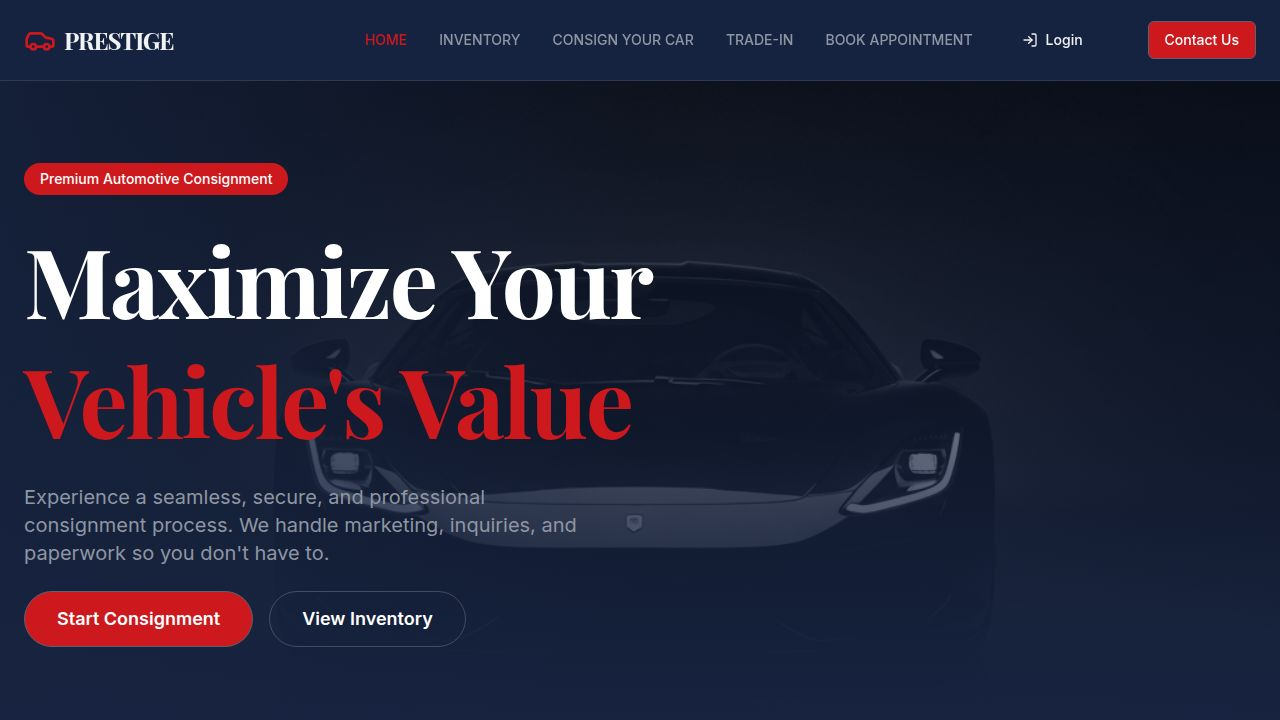
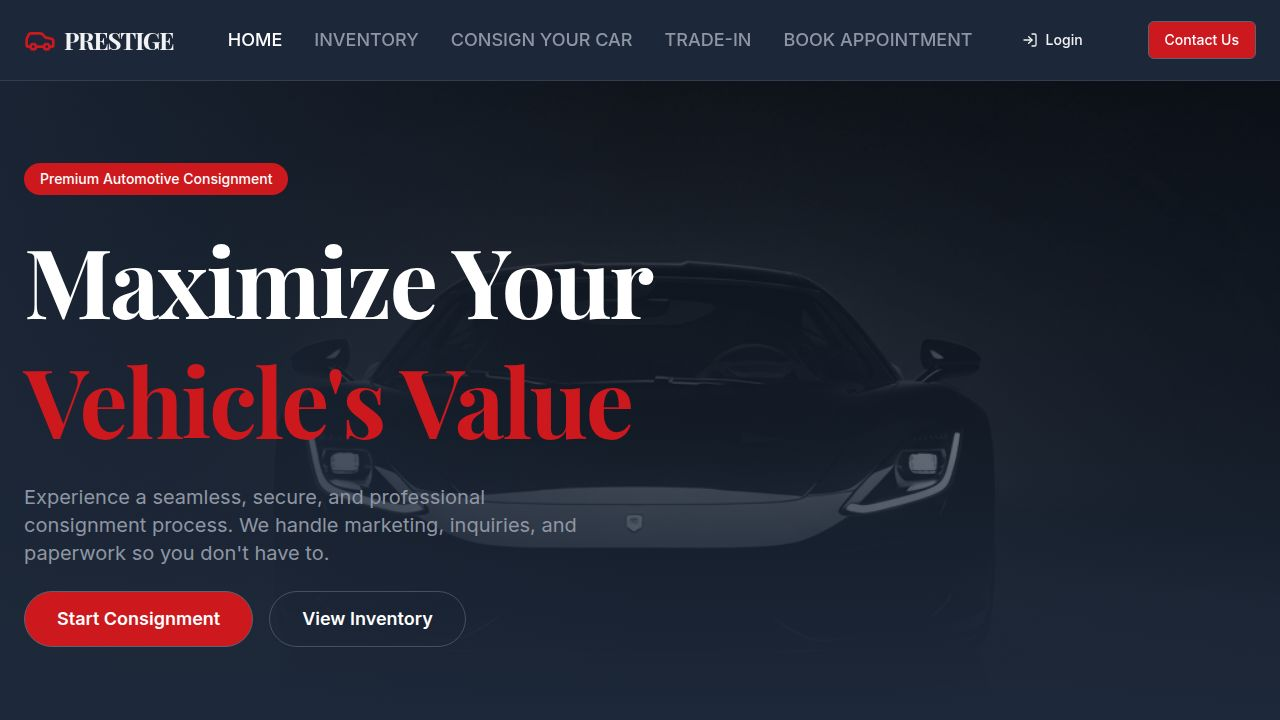
Add ability to customize navigation labels in the admin panel
Updates schema to include new fields for menu labels, modifies the Admin page to manage these labels, and updates the Navbar component to dynamically display them.

Replit-Commit-Author: Agent
Replit-Commit-Session-Id: bc98085c-f7fb-48ae-a5b9-5208d98b7f68
Replit-Commit-Checkpoint-Type: full_checkpoint
Replit-Commit-Event-Id: cee80a5c-2a74-4c8b-92bb-bd567e764853
Replit-Commit-Screenshot-Url: https://storage.googleapis.com/screenshot-production-us-central1/47449de9-d5d8-4a5c-9e45-dc5ba463f1c8/bc98085c-f7fb-48ae-a5b9-5208d98b7f68/puFXDUC
Replit-Helium-Checkpoint-Created: true

Changed region(s): [[0.25, 0.0306, 0.75, 0.0611], [0.1875, 0.0306, 0.2188, 0.0611]]

diff --git a/client/src/pages/Admin.tsx b/client/src/pages/Admin.tsx
@@ -12,7 +12,7 @@ import { Tabs, TabsContent, TabsList, TabsTrigger } from "@/components/ui/tabs";
 import { Dialog, DialogContent, DialogHeader, DialogTitle, DialogDescription, DialogFooter } from "@/components/ui/dialog";
 import { Label } from "@/components/ui/label";
 import { useToast } from "@/hooks/use-toast";
-import { Check, X, Clock, DollarSign, Lock, LogOut, Settings, Palette, Image, Phone, Mail, MapPin, Facebook, Instagram, Twitter, Youtube, Pencil, Plus, Search, Upload, Trash2, Car, Star, MessageSquare, Link, Bell, Plug, FileText, Download, ExternalLink, Eye, EyeOff, Users, Shield, UserPlus, Calculator, BarChart3, ChevronsUpDown, Loader2 } from "lucide-react";
+import { Check, X, Clock, DollarSign, Lock, LogOut, Settings, Palette, Image, Phone, Mail, MapPin, Facebook, Instagram, Twitter, Youtube, Pencil, Plus, Search, Upload, Trash2, Car, Star, MessageSquare, Link, Bell, Plug, FileText, Download, ExternalLink, Eye, EyeOff, Users, Shield, UserPlus, Calculator, BarChart3, ChevronsUpDown, Loader2, Menu } from "lucide-react";
 import { Textarea } from "@/components/ui/textarea";
 import { Switch } from "@/components/ui/switch";
 import { Popover, PopoverContent, PopoverTrigger } from "@/components/ui/popover";
@@ -316,6 +316,11 @@ function SettingsPanel({ onRegisterSave }: { onRegisterSave: (handler: { save: (
   const [privacyPolicy, setPrivacyPolicy] = useState("");
   const [termsOfService, setTermsOfService] = useState("");
   const [sellerConfirmationSms, setSellerConfirmationSms] = useState("Thank you for submitting your {year} {make} {model} to {siteName}! We'll review your submission and contact you within 24 hours.");
+  const [menuLabelHome, setMenuLabelHome] = useState("Home");
+  const [menuLabelInventory, setMenuLabelInventory] = useState("Inventory");
+  const [menuLabelConsign, setMenuLabelConsign] = useState("Consign");
+  const [menuLabelTradeIn, setMenuLabelTradeIn] = useState("Trade-In");
+  const [menuLabelAppointments, setMenuLabelAppointments] = useState("Book Appointment");
 
   const { data: settings, isLoading } = useQuery<SiteSettings & { ghlConfigured?: boolean }>({
     queryKey: ["/api/settings"],
@@ -370,6 +375,11 @@ function SettingsPanel({ onRegisterSave }: { onRegisterSave: (handler: { save: (
       setPrivacyPolicy(settings.privacyPolicy || "");
       setTermsOfService(settings.termsOfService || "");
       setSellerConfirmationSms(settings.sellerConfirmationSms || "Thank you for submitting your {year} {make} {model} to {siteName}! We'll review your submission and contact you within 24 hours.");
+      setMenuLabelHome(settings.menuLabelHome || "Home");
+      setMenuLabelInventory(settings.menuLabelInventory || "Inventory");
+      setMenuLabelConsign(settings.menuLabelConsign || "Consign");
+      setMenuLabelTradeIn(settings.menuLabelTradeIn || "Trade-In");
+      setMenuLabelAppointments(settings.menuLabelAppointments || "Book Appointment");
     }
   }, [settings]);
 
@@ -422,6 +432,11 @@ function SettingsPanel({ onRegisterSave }: { onRegisterSave: (handler: { save: (
           privacyPolicy: privacyPolicy || null,
           termsOfService: termsOfService || null,
           sellerConfirmationSms: sellerConfirmationSms || null,
+          menuLabelHome: menuLabelHome || "Home",
+          menuLabelInventory: menuLabelInventory || "Inventory",
+          menuLabelConsign: menuLabelConsign || "Consign",
+          menuLabelTradeIn: menuLabelTradeIn || "Trade-In",
+          menuLabelAppointments: menuLabelAppointments || "Book Appointment",
         }),
       });
       if (!res.ok) throw new Error("Failed to update settings");
@@ -456,10 +471,14 @@ function SettingsPanel({ onRegisterSave }: { onRegisterSave: (handler: { save: (
 
   return (
     <Tabs value={settingsTab} onValueChange={setSettingsTab} className="space-y-6">
-      <TabsList className="grid w-full grid-cols-6">
+      <TabsList className="grid w-full grid-cols-7">
         <TabsTrigger value="branding" className="flex items-center gap-2" data-testid="tab-branding">
           <Palette className="h-4 w-4" />
           <span className="hidden sm:inline">Branding</span>
+        </TabsTrigger>
+        <TabsTrigger value="menus" className="flex items-center gap-2" data-testid="tab-menus">
+          <Menu className="h-4 w-4" />
+          <span className="hidden sm:inline">Menus</span>
         </TabsTrigger>
         <TabsTrigger value="contact" className="flex items-center gap-2" data-testid="tab-contact">
           <Phone className="h-4 w-4" />
@@ -1062,6 +1081,83 @@ function SettingsPanel({ onRegisterSave }: { onRegisterSave: (handler: { save: (
           </Button>
         </CardFooter>
       </Card>
+      </TabsContent>
+
+      <TabsContent value="menus" className="space-y-6">
+        <Card className="border-white border">
+          <CardHeader>
+            <CardTitle className="flex items-center gap-2">
+              <Menu className="h-5 w-5" /> Navigation Menu Labels
+            </CardTitle>
+            <CardDescription>Customize the text displayed in your site's navigation menu</CardDescription>
+          </CardHeader>
+          <CardContent className="space-y-4">
+            <div className="grid gap-4 md:grid-cols-2">
+              <div className="space-y-2">
+                <Label htmlFor="menuLabelHome">Home Page</Label>
+                <Input
+                  id="menuLabelHome"
+                  value={menuLabelHome}
+                  onChange={(e) => setMenuLabelHome(e.target.value)}
+                  placeholder="Home"
+                  data-testid="input-menu-label-home"
+                />
+              </div>
+              <div className="space-y-2">
+                <Label htmlFor="menuLabelInventory">Inventory Page</Label>
+                <Input
+                  id="menuLabelInventory"
+                  value={menuLabelInventory}
+                  onChange={(e) => setMenuLabelInventory(e.target.value)}
+                  placeholder="Inventory"
+                  data-testid="input-menu-label-inventory"
+                />
+              </div>
+              <div className="space-y-2">
+                <Label htmlFor="menuLabelConsign">Consignment Page</Label>
+                <Input
+                  id="menuLabelConsign"
+                  value={menuLabelConsign}
+                  onChange={(e) => setMenuLabelConsign(e.target.value)}
+                  placeholder="Consign"
+                  data-testid="input-menu-label-consign"
+                />
+              </div>
+              <div className="space-y-2">
+                <Label htmlFor="menuLabelTradeIn">Trade-In Page</Label>
+                <Input
+                  id="menuLabelTradeIn"
+                  value={menuLabelTradeIn}
+                  onChange={(e) => setMenuLabelTradeIn(e.target.value)}
+                  placeholder="Trade-In"
+                  data-testid="input-menu-label-trade-in"
+                />
+              </div>
+              <div className="space-y-2">
+                <Label htmlFor="menuLabelAppointments">Appointments Page</Label>
+                <Input
+                  id="menuLabelAppointments"
+                  value={menuLabelAppointments}
+                  onChange={(e) => setMenuLabelAppointments(e.target.value)}
+                  placeholder="Book Appointment"
+                  data-testid="input-menu-label-appointments"
+                />
+              </div>
+            </div>
+            <p className="text-sm text-muted-foreground">
+              These labels appear in the navigation bar at the top of your website.
+            </p>
+          </CardContent>
+          <CardFooter>
+            <Button 
+              onClick={() => updateMutation.mutate()} 
+              disabled={updateMutation.isPending}
+              data-testid="button-save-menus"
+            >
+              {updateMutation.isPending ? "Saving..." : "Save Menu Labels"}
+            </Button>
+          </CardFooter>
+        </Card>
       </TabsContent>
 
       <TabsContent value="contact" className="space-y-6">

diff --git a/shared/schema.ts b/shared/schema.ts
@@ -152,6 +152,11 @@ export const siteSettings = pgTable("site_settings", {
   privacyPolicy: text("privacy_policy"),
   termsOfService: text("terms_of_service"),
   sellerConfirmationSms: text("seller_confirmation_sms").default("Thank you for submitting your {year} {make} {model} to {siteName}! We'll review your submission and contact you within 24 hours."),
+  menuLabelHome: text("menu_label_home").default("Home"),
+  menuLabelInventory: text("menu_label_inventory").default("Inventory"),
+  menuLabelConsign: text("menu_label_consign").default("Consign"),
+  menuLabelTradeIn: text("menu_label_trade_in").default("Trade-In"),
+  menuLabelAppointments: text("menu_label_appointments").default("Book Appointment"),
   updatedAt: timestamp("updated_at").defaultNow(),
 });
 

diff --git a/client/src/components/layout/Navbar.tsx b/client/src/components/layout/Navbar.tsx
@@ -27,11 +27,11 @@ export function Navbar() {
   const siteName = settings?.siteName || "PRESTIGE";
 
   const links = [
-    { href: "/", label: "Home" },
-    { href: "/inventory", label: "Inventory" },
-    { href: "/consign", label: "Consign Your Car" },
-    { href: "/trade-in", label: "Trade-In" },
-    { href: "/appointments", label: "Book Appointment" },
+    { href: "/", label: settings?.menuLabelHome || "Home" },
+    { href: "/inventory", label: settings?.menuLabelInventory || "Inventory" },
+    { href: "/consign", label: settings?.menuLabelConsign || "Consign" },
+    { href: "/trade-in", label: settings?.menuLabelTradeIn || "Trade-In" },
+    { href: "/appointments", label: settings?.menuLabelAppointments || "Book Appointment" },
   ];
 
   return (
